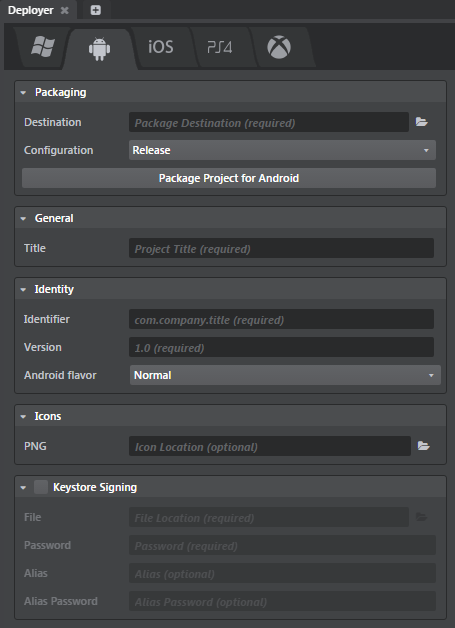
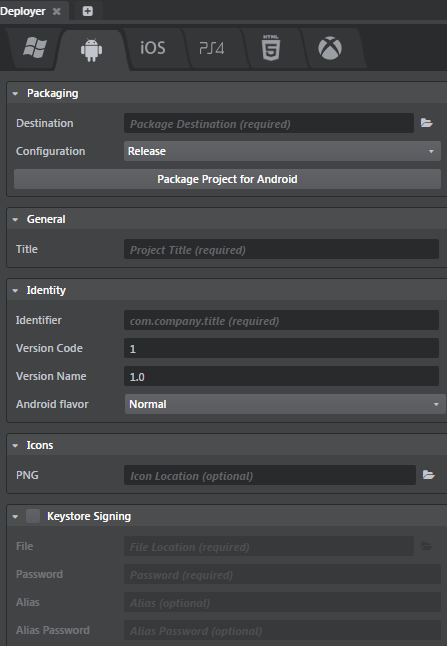
Add more known limitations to 1.8 release note

diff --git a/source/stingray_help/release_notes/readme_1.8.md b/source/stingray_help/release_notes/readme_1.8.md
@@ -187,6 +187,7 @@ These were late-breaking issues that affected Stingray 1.7 as known limitations.
 - GAME-19428 3D Text Label: opacity doesn't seem to be having any effect
 - GAME-22178 Unhandled exception when prompted to save an untitled script file
 - GAME-19158 ADP dialog gets behind the Editor at launch
+-	GAME-21151 HumanIK Example project: pressing 'x' for X-rays shows green/white rigs that seem to be in the wrong space/orientation
 
 ## Audio/Wwise
 
@@ -336,9 +337,15 @@ Unless otherwise noted in the **What's Fixed** section, please be aware that thi
 
 	We changed the rendering backend in Stingray 1.8 to Metal instead of OpenGL on iOS. We use the googlevr SDK to implement iOS Cardboard support and this means it has been temporarily disabled, because this SDK does not include support for Metal out of the box. For details, see [this known issues link](https://developers.google.com/vr/ios/release-notes).
 
-- **GAME-22297 Thumbnails display as solid grey in the Asset Browser**
+-	**GAME- 22249 Missing Scaleform UIs from all templates when running games on iOS**
 
-	**Workaround:** Right-click to reload the problematic panels.
+	**Workaround:** None.
+
+-	**GAME-22069 Baked reflection probe don't function properly when using mini-renderer**
+
+	Reflection probe cubemaps are not generated properly when using mini-renderer, and the reflections look faded in VR template projects.
+
+	**Workaround:** Modify your project's *settings.ini* file to use the default renderer, and generate the cubemaps. Close the project, switch back to mini_renderer in *settings.ini* and then re-open the project.
 
 [Return to top](#top)
 
@@ -350,6 +357,10 @@ The full installation guide for Autodesk products including Stingray is included
 
 This section explains the improvements and fixes that require specific upgrade steps for users currently using a previous version of Stingray.
 
+### Wwise updates
+
+The Wwise exporter tool has been updated to finish generating sound banks before compilation by the Stingray editor. The sound banks are automatically regenerated when you load/migrate projects into Stingray 1.8, provided your Wwise project is writable. In case you encounter any error, reload the project or update the Wwise settings file (**File > Settings > Update Wwise Project Settings**).
+
 ### Lua API changes
 
 For a complete list of all new, modified, and removed elements in the Lua API in this release, see the [version history](../../lua_ref/versions.html).
@@ -357,6 +368,8 @@ For a complete list of all new, modified, and removed elements in the Lua API in
 If your project contains any API elements that have been modified or removed, you will need to adjust your code accordingly.
 
 -	The setting names accepted by `Unit.set_animation_bone_mode()` and returned by `Unit.animation_bone_mode()` have been renamed to remove the `delta_` prefix. This better describes the effect of each setting.
+
+-	Use `Oculus.set_tracking_space()`and `SteamVR.set_tracking_space()` to track space scaling without scaling the world in VRs. This fixes issues with the scaled effects like fog, shadows affecting the world space and the functions `Oculus.set_tracking_space_pose()` and `SteamVR.set_tracking_space_pose()` are now deprecated. Note that when you scale the tracking space, you need to manually resize the controllers using `Unit.set_local_scale()`.
 
 ### Flow node changes
 

diff --git a/source/stingray_help/getting_started/get_started_android.md b/source/stingray_help/getting_started/get_started_android.md
@@ -139,8 +139,11 @@ These settings are common for all tabs. See ~{ Using the Deployer panel }~.
 <dt>Identifier</dt>
 <dd>The unique process name of your application. It contains two parts separated by a dot.</dd>
 
-<dt>Version</dt>
-<dd>The application version, in two-part notation.</dd>
+<dt>Version Code</dt>
+<dd>An internal version number used by the Google store to distinguish between version upgrades.</dd>
+
+<dt>Version Name</dt>
+<dd>The version number, in two-part notation that is displayed in your application, e.g.1.25.</dd>
 
 <dt>Android flavor</dt>
 <dd>There are three different builds of the Stingray engine for Android: a regular build, a build that plays content on Gear VR devices, and a build that plays content on Google VR devices. Use this control to choose which of these engine flavors are included in your package.</dd>

diff --git a/source/stingray_help/getting_started/common_windows/history.md b/source/stingray_help/getting_started/common_windows/history.md
@@ -8,7 +8,6 @@ The **History** tool lists the set of commands executed in your project and lets
 
 - View the actions performed along with a link to the asset. The last command executed is highlighted in blue.
 - Perform a quick series of undo/redo operations using the **Undo/Redo** buttons.
-- Click any command in the list to see the change that occurred.
 - For commands with links to an asset or a level, you can click the link to select the asset in the **Asset Browser** or the level instance in the viewport.
 
   >**Note**: The **History** tool does not list create, rename, move or delete actions in the **Asset Browser**  (operations involving changes to file on disk) and neither can you undo these actions.

diff --git a/source/stingray_help/lighting_rendering/lighting/light_sources/create_light_source.md b/source/stingray_help/lighting_rendering/lighting/light_sources/create_light_source.md
@@ -8,6 +8,8 @@ You create light sources in your game by placing or spawning any type of unit th
 
 The instructions below describe how to place and spawn an instance of this helper unit in the Stingray Editor, Lua, and Flow.
 
+>**Note:** If you happen to see light gizmos in projects migrated from Stingray 1.4 and older, delete the old lights and replace them with new ones.
+
 ## Level editing
 
 To create a new light source in a level:

diff --git a/source/stingray_help/importing_assets/link_to_dcc.md b/source/stingray_help/importing_assets/link_to_dcc.md
@@ -1,6 +1,6 @@
 # Interop with Maya, Maya LT, or 3ds Max
 
->**Note:** Interop with Stingray is supported as of Extension 1 for Maya 2016, Maya LT 2016, and 3ds Max 2016.
+>**Note:** Interop with Stingray is supported as of Extension 1 for Maya 2016, Maya LT 2016, and 3ds Max 2016. Releases prior to those are not supported.
 
 Stingray includes an interop plug-in to support linking to your **DCC** (digital content creation) tool.
 
